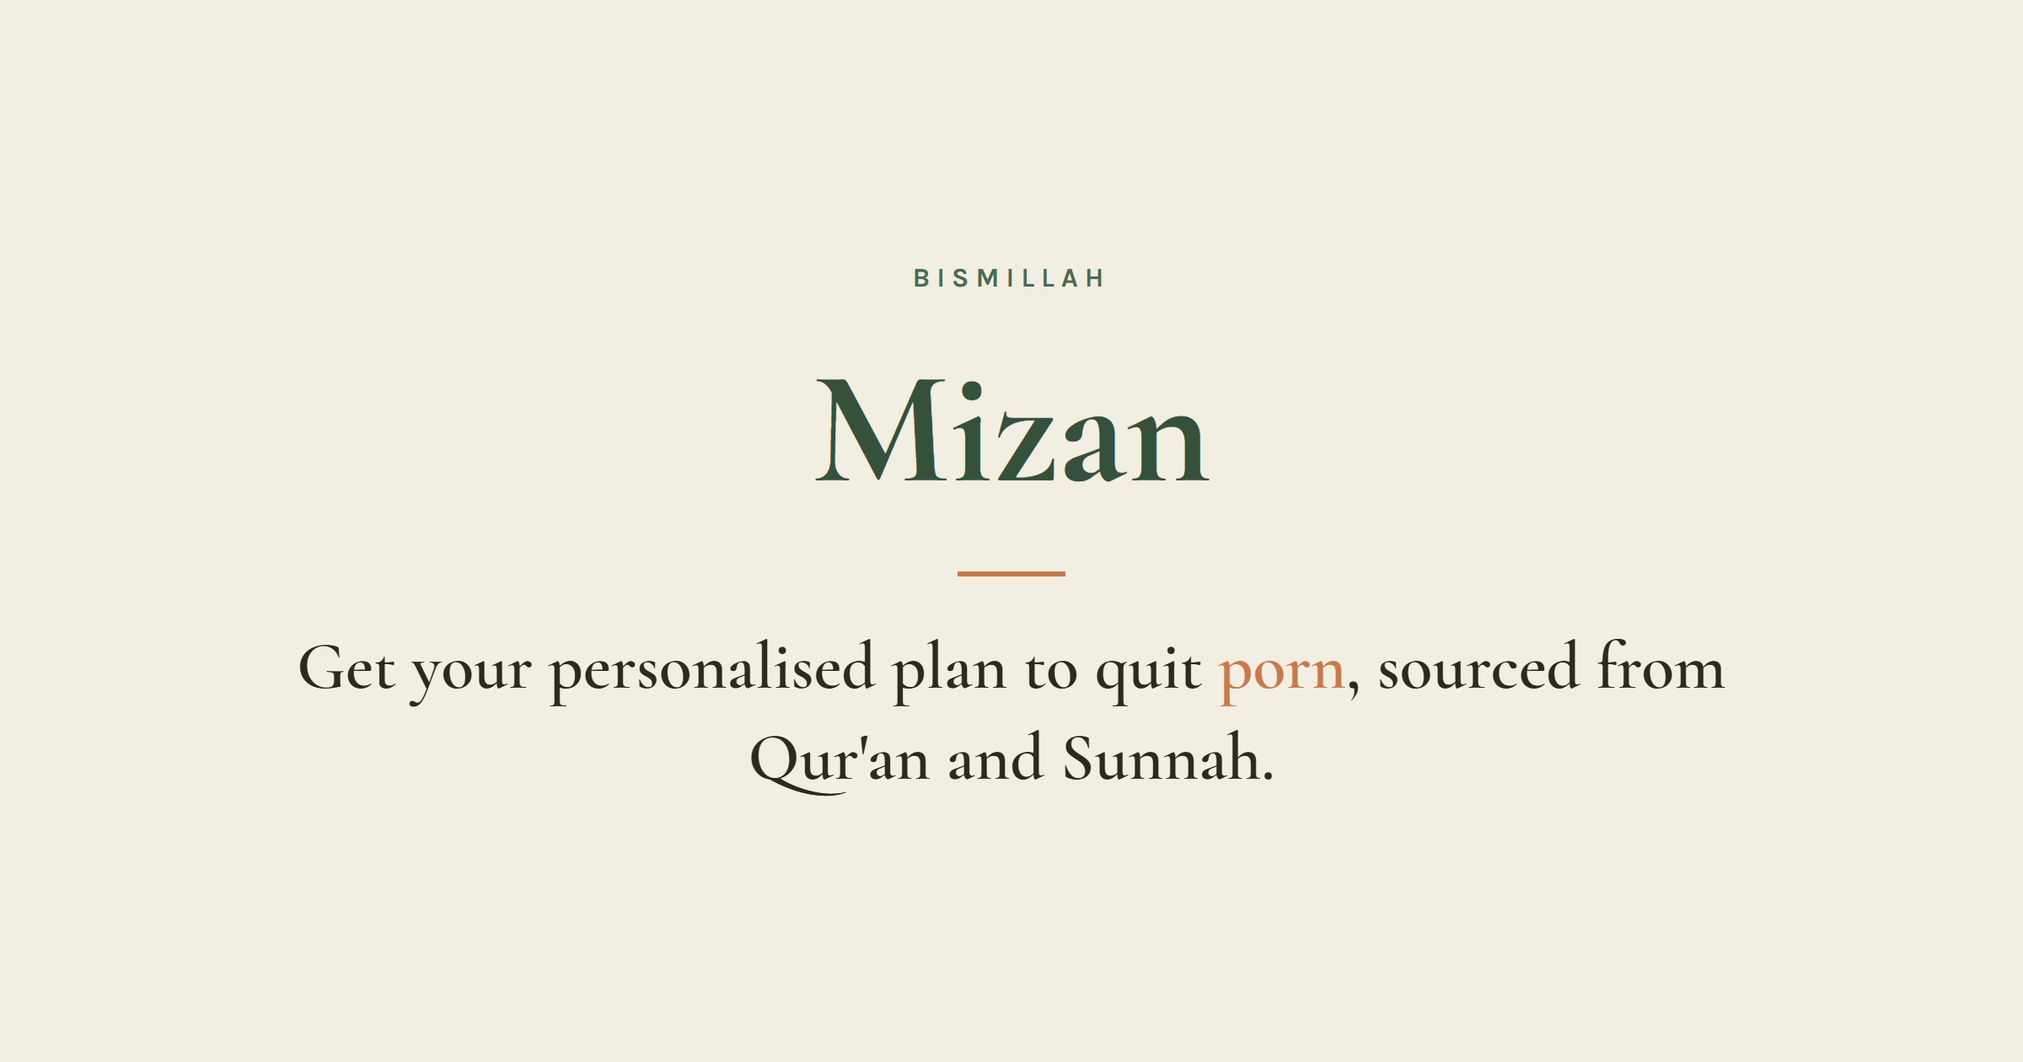
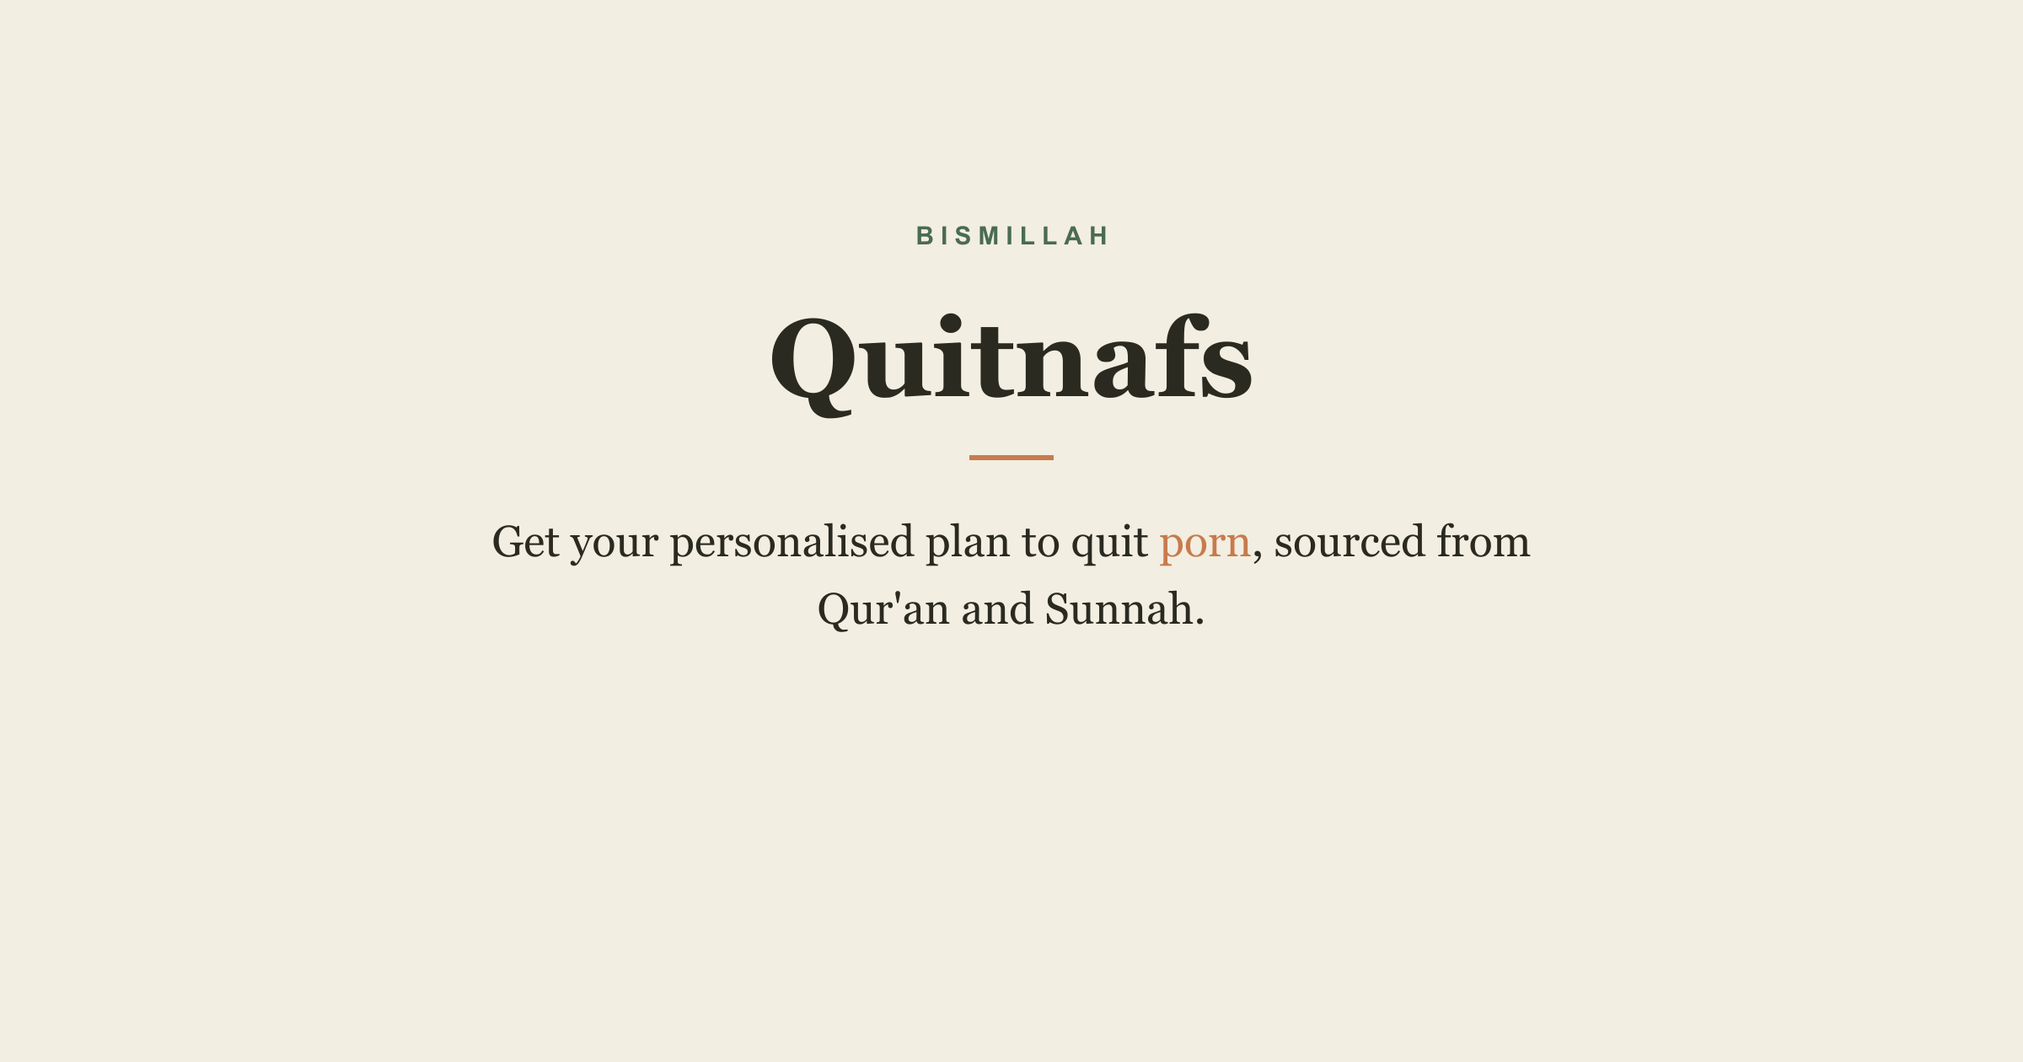
Rebrand: Mizan -> Quitnafs across site copy, meta tags, structured data, and OG image

diff --git a/index.html b/index.html
@@ -4,23 +4,23 @@
 <meta charset="utf-8">
 <meta name="viewport" content="width=device-width, initial-scale=1">
 <meta name="color-scheme" content="light only">
-<title>Mizan</title>
+<title>Quitnafs</title>
 <meta name="description" content="Get your personalized plan to quit porn, sourced from Qur'an and Sunnah.">
 
 <!-- Open Graph / link preview, fixes the black text-only card Instagram was showing.
      og:image must be an absolute URL, relative paths don't work for link previews. -->
 <meta property="og:type" content="website">
-<meta property="og:url" content="https://mizanguide.github.io/mizan_guide/">
-<meta property="og:title" content="Mizan">
+<meta property="og:url" content="https://quitnafs.github.io/quitnafs/">
+<meta property="og:title" content="Quitnafs">
 <meta property="og:description" content="Get your personalized plan to quit porn, sourced from Qur'an and Sunnah.">
-<meta property="og:image" content="https://mizanguide.github.io/mizan_guide/og-image.png">
+<meta property="og:image" content="https://quitnafs.github.io/quitnafs/og-image.png">
 <meta property="og:image:width" content="1200">
 <meta property="og:image:height" content="630">
 <meta name="twitter:card" content="summary_large_image">
-<meta name="twitter:title" content="Mizan">
+<meta name="twitter:title" content="Quitnafs">
 <meta name="twitter:description" content="Get your personalized plan to quit porn, sourced from Qur'an and Sunnah.">
-<meta name="twitter:image" content="https://mizanguide.github.io/mizan_guide/og-image.png">
-<link rel="canonical" href="https://mizanguide.github.io/mizan_guide/">
+<meta name="twitter:image" content="https://quitnafs.github.io/quitnafs/og-image.png">
+<link rel="canonical" href="https://quitnafs.github.io/quitnafs/">
 
 <!-- Structured data for search and AI answer engines (ChatGPT, Perplexity, Gemini, Google
      AI Overviews). The FAQPage text below must stay word for word identical to the visible
@@ -29,11 +29,11 @@
 {
   "@context": "https://schema.org",
   "@type": "Organization",
-  "name": "Mizan",
-  "url": "https://mizanguide.github.io/mizan_guide/",
-  "logo": "https://mizanguide.github.io/mizan_guide/og-image.png",
+  "name": "Quitnafs",
+  "url": "https://quitnafs.github.io/quitnafs/",
+  "logo": "https://quitnafs.github.io/quitnafs/og-image.png",
   "description": "A personalized, sourced plan to quit watching pornography, grounded in the Qur'an and the Sunnah.",
-  "sameAs": ["https://instagram.com/mizan.guide"]
+  "sameAs": ["https://instagram.com/quitnafs"]
 }
 </script>
 <script type="application/ld+json">
@@ -46,7 +46,7 @@
       "name": "How do I quit porn addiction as a Muslim?",
       "acceptedAnswer": {
         "@type": "Answer",
-        "text": "Start by naming what set it off and physically removing yourself from it, most relapses happen from the same few triggers repeated, late at night, alone, a specific app. Make sincere tawbah for what already happened, then build a real daily habit around it, not just willpower for one night. Allah describes exactly this pattern: \"Indeed, when Satan whispers to those mindful (of Allah), they remember (their Lord) then they start to see (things) clearly\" (Qur'an 7:201, Khattab). Quitting is rarely one clean decision, it is this pattern repeated daily until it holds, which is the actual structure behind a Mizan plan."
+        "text": "Start by naming what set it off and physically removing yourself from it, most relapses happen from the same few triggers repeated, late at night, alone, a specific app. Make sincere tawbah for what already happened, then build a real daily habit around it, not just willpower for one night. Allah describes exactly this pattern: \"Indeed, when Satan whispers to those mindful (of Allah), they remember (their Lord) then they start to see (things) clearly\" (Qur'an 7:201, Khattab). Quitting is rarely one clean decision, it is this pattern repeated daily until it holds, which is the actual structure behind a Quitnafs plan."
       }
     },
     {
@@ -54,7 +54,7 @@
       "name": "Why can't I stop watching porn even though I know it's haram?",
       "acceptedAnswer": {
         "@type": "Answer",
-        "text": "Knowing something is haram and breaking the habit around it are two different problems. Guilt on its own does not remove a trigger, and neither does counting days, which is why so many people who try streak counting alone start over again and again. What actually changes it is noticing the exact moment the urge starts and having a real, practiced response ready for that moment, not just the general intention to stop. That is the mechanism a Mizan plan is built around, one real step a day, not a countdown."
+        "text": "Knowing something is haram and breaking the habit around it are two different problems. Guilt on its own does not remove a trigger, and neither does counting days, which is why so many people who try streak counting alone start over again and again. What actually changes it is noticing the exact moment the urge starts and having a real, practiced response ready for that moment, not just the general intention to stop. That is the mechanism a Quitnafs plan is built around, one real step a day, not a countdown."
       }
     },
     {
@@ -62,7 +62,7 @@
       "name": "Is watching porn haram in Islam?",
       "acceptedAnswer": {
         "@type": "Answer",
-        "text": "Yes. The Qur'an ties this directly to guarding one's private parts and one's gaze outside marriage: \"those who guard their chastity, except with their wives or those (bondwomen) in their possession, for then they are free from blame, but whoever seeks beyond that are the transgressors\" (Qur'an 23:5 to 7, Khattab). Watching pornography falls outside that boundary. We built the Mizan plan around leaving it completely, not managing it."
+        "text": "Yes. The Qur'an ties this directly to guarding one's private parts and one's gaze outside marriage: \"those who guard their chastity, except with their wives or those (bondwomen) in their possession, for then they are free from blame, but whoever seeks beyond that are the transgressors\" (Qur'an 23:5 to 7, Khattab). Watching pornography falls outside that boundary. We built the Quitnafs plan around leaving it completely, not managing it."
       }
     },
     {
@@ -78,7 +78,7 @@
       "name": "Is nofap sunnah, or just a secular trend?",
       "acceptedAnswer": {
         "@type": "Answer",
-        "text": "Nofap is a modern, secular term for stopping masturbation, usually framed around streaks and self-discipline alone. Islam asks for the same outward action, guarding one's desire outside marriage, but for a different reason and with a different support system: sincere repentance to Allah, not just personal willpower, and mercy when you slip, not a broken streak counter starting back at zero. That difference is why streak-counting apps alone often do not hold for long, and why a Mizan plan is built around repentance and a daily step, not a number."
+        "text": "Nofap is a modern, secular term for stopping masturbation, usually framed around streaks and self-discipline alone. Islam asks for the same outward action, guarding one's desire outside marriage, but for a different reason and with a different support system: sincere repentance to Allah, not just personal willpower, and mercy when you slip, not a broken streak counter starting back at zero. That difference is why streak-counting apps alone often do not hold for long, and why a Quitnafs plan is built around repentance and a daily step, not a number."
       }
     },
     {
@@ -110,22 +110,22 @@
       "name": "What can I say when the urge comes?",
       "acceptedAnswer": {
         "@type": "Answer",
-        "text": "Say أَعوذُ بِاللّهِ مِنَ الشَّيْطَانِ الرَّجِيمِ which means: I seek refuge in Allah from Satan, the accursed. Allah describes exactly this moment: \"Indeed, when Satan whispers to those mindful (of Allah), they remember (their Lord) then they start to see (things) clearly\" (Qur'an 7:201, Khattab). Naming the feeling, saying this, and physically leaving the room for a few minutes is the actual first step we give people in a Mizan plan, not a generic tip."
+        "text": "Say أَعوذُ بِاللّهِ مِنَ الشَّيْطَانِ الرَّجِيمِ which means: I seek refuge in Allah from Satan, the accursed. Allah describes exactly this moment: \"Indeed, when Satan whispers to those mindful (of Allah), they remember (their Lord) then they start to see (things) clearly\" (Qur'an 7:201, Khattab). Naming the feeling, saying this, and physically leaving the room for a few minutes is the actual first step we give people in a Quitnafs plan, not a generic tip."
       }
     },
     {
       "@type": "Question",
-      "name": "How does Mizan help you quit?",
+      "name": "How does Quitnafs help you quit?",
       "acceptedAnswer": {
         "@type": "Answer",
-        "text": "Mizan is not a document you read once. After a short set of questions, we build you a private daily page for 14 days. Every day carries one real step sourced from the Qur'an or an authentic hadith, and the next day is built from how the last one actually went, not a fixed script everyone gets. It costs $5 once, and the questions above take about two minutes to answer."
+        "text": "Quitnafs is not a document you read once. After a short set of questions, we build you a private daily page for 14 days. Every day carries one real step sourced from the Qur'an or an authentic hadith, and the next day is built from how the last one actually went, not a fixed script everyone gets. It costs $5 once, and the questions above take about two minutes to answer."
       }
     }
   ]
 }
 </script>
 
-<!-- Google Analytics 4, set up under the mizan.guide account, 2026-09-10. -->
+<!-- Google Analytics 4, set up under the quitnafs account, 2026-09-10. -->
 <script async src="https://www.googletagmanager.com/gtag/js?id=G-CLQXXNVSGW"></script>
 <script>
   window.dataLayer = window.dataLayer || [];
@@ -377,7 +377,7 @@
 
   <header class="hero">
     <div class="eyebrow">Bismillah</div>
-    <h1 class="wordmark">Mizan</h1>
+    <h1 class="wordmark">Quitnafs</h1>
     <hr class="rule">
     <p class="tagline">Get your personalized plan to quit <span class="hl">porn</span>, sourced from Qur'an and Sunnah.</p>
   </header>
@@ -476,7 +476,7 @@
       <p class="pay-note" id="pay-note"></p>
     </div>
 
-    <p class="fallback-link"><a class="btn-ghost" id="dm-fallback-link" href="https://instagram.com/mizan.guide" target="_blank" rel="noopener">Or DM us on Instagram directly</a></p>
+    <p class="fallback-link"><a class="btn-ghost" id="dm-fallback-link" href="https://instagram.com/quitnafs" target="_blank" rel="noopener">Or DM us on Instagram directly</a></p>
   </section>
 
   <section class="proof" id="proof-section">
@@ -496,17 +496,17 @@
 
     <details class="faq-item" open>
       <summary>How do I quit porn addiction as a Muslim?</summary>
-      <p class="a">Start by naming what set it off and physically removing yourself from it, most relapses happen from the same few triggers repeated, late at night, alone, a specific app. Make sincere tawbah for what already happened, then build a real daily habit around it, not just willpower for one night. Allah describes exactly this pattern: "Indeed, when Satan whispers to those mindful (of Allah), they remember (their Lord) then they start to see (things) clearly." <span class="cite">Qur'an 7:201, Khattab</span> Quitting is rarely one clean decision, it is this pattern repeated daily until it holds, which is the actual structure behind a Mizan plan.</p>
+      <p class="a">Start by naming what set it off and physically removing yourself from it, most relapses happen from the same few triggers repeated, late at night, alone, a specific app. Make sincere tawbah for what already happened, then build a real daily habit around it, not just willpower for one night. Allah describes exactly this pattern: "Indeed, when Satan whispers to those mindful (of Allah), they remember (their Lord) then they start to see (things) clearly." <span class="cite">Qur'an 7:201, Khattab</span> Quitting is rarely one clean decision, it is this pattern repeated daily until it holds, which is the actual structure behind a Quitnafs plan.</p>
     </details>
 
     <details class="faq-item">
       <summary>Why can't I stop watching porn even though I know it's haram?</summary>
-      <p class="a">Knowing something is haram and breaking the habit around it are two different problems. Guilt on its own does not remove a trigger, and neither does counting days, which is why so many people who try streak counting alone start over again and again. What actually changes it is noticing the exact moment the urge starts and having a real, practiced response ready for that moment, not just the general intention to stop. That is the mechanism a Mizan plan is built around, one real step a day, not a countdown.</p>
+      <p class="a">Knowing something is haram and breaking the habit around it are two different problems. Guilt on its own does not remove a trigger, and neither does counting days, which is why so many people who try streak counting alone start over again and again. What actually changes it is noticing the exact moment the urge starts and having a real, practiced response ready for that moment, not just the general intention to stop. That is the mechanism a Quitnafs plan is built around, one real step a day, not a countdown.</p>
     </details>
 
     <details class="faq-item">
       <summary>Is watching porn haram in Islam?</summary>
-      <p class="a">Yes. The Qur'an ties this directly to guarding one's private parts and one's gaze outside marriage: "those who guard their chastity, except with their wives or those (bondwomen) in their possession, for then they are free from blame, but whoever seeks beyond that are the transgressors." <span class="cite">Qur'an 23:5 to 7, Khattab</span> Watching pornography falls outside that boundary. We built the Mizan plan around leaving it completely, not managing it.</p>
+      <p class="a">Yes. The Qur'an ties this directly to guarding one's private parts and one's gaze outside marriage: "those who guard their chastity, except with their wives or those (bondwomen) in their possession, for then they are free from blame, but whoever seeks beyond that are the transgressors." <span class="cite">Qur'an 23:5 to 7, Khattab</span> Watching pornography falls outside that boundary. We built the Quitnafs plan around leaving it completely, not managing it.</p>
     </details>
 
     <details class="faq-item">
@@ -516,7 +516,7 @@
 
     <details class="faq-item">
       <summary>Is nofap sunnah, or just a secular trend?</summary>
-      <p class="a">Nofap is a modern, secular term for stopping masturbation, usually framed around streaks and self-discipline alone. Islam asks for the same outward action, guarding one's desire outside marriage, but for a different reason and with a different support system: sincere repentance to Allah, not just personal willpower, and mercy when you slip, not a broken streak counter starting back at zero. That difference is why streak-counting apps alone often do not hold for long, and why a Mizan plan is built around repentance and a daily step, not a number.</p>
+      <p class="a">Nofap is a modern, secular term for stopping masturbation, usually framed around streaks and self-discipline alone. Islam asks for the same outward action, guarding one's desire outside marriage, but for a different reason and with a different support system: sincere repentance to Allah, not just personal willpower, and mercy when you slip, not a broken streak counter starting back at zero. That difference is why streak-counting apps alone often do not hold for long, and why a Quitnafs plan is built around repentance and a daily step, not a number.</p>
     </details>
 
     <details class="faq-item">
@@ -536,20 +536,20 @@
 
     <details class="faq-item">
       <summary>What can I say when the urge comes?</summary>
-      <p class="a">Say <span class="arabic">أَعوذُ بِاللّهِ مِنَ الشَّيْطَانِ الرَّجِيمِ</span> which means: I seek refuge in Allah from Satan, the accursed. Allah describes exactly this moment: "Indeed, when Satan whispers to those mindful (of Allah), they remember (their Lord) then they start to see (things) clearly." <span class="cite">Qur'an 7:201, Khattab</span> Naming the feeling, saying this, and physically leaving the room for a few minutes is the actual first step we give people in a Mizan plan, not a generic tip.</p>
+      <p class="a">Say <span class="arabic">أَعوذُ بِاللّهِ مِنَ الشَّيْطَانِ الرَّجِيمِ</span> which means: I seek refuge in Allah from Satan, the accursed. Allah describes exactly this moment: "Indeed, when Satan whispers to those mindful (of Allah), they remember (their Lord) then they start to see (things) clearly." <span class="cite">Qur'an 7:201, Khattab</span> Naming the feeling, saying this, and physically leaving the room for a few minutes is the actual first step we give people in a Quitnafs plan, not a generic tip.</p>
     </details>
 
     <details class="faq-item">
-      <summary>How does Mizan help you quit?</summary>
-      <p class="a">Mizan is not a document you read once. After a short set of questions, we build you a private daily page for 14 days. Every day carries one real step sourced from the Qur'an or an authentic hadith, and the next day is built from how the last one actually went, not a fixed script everyone gets. It costs $5 once, and the questions above take about two minutes to answer.</p>
+      <summary>How does Quitnafs help you quit?</summary>
+      <p class="a">Quitnafs is not a document you read once. After a short set of questions, we build you a private daily page for 14 days. Every day carries one real step sourced from the Qur'an or an authentic hadith, and the next day is built from how the last one actually went, not a fixed script everyone gets. It costs $5 once, and the questions above take about two minutes to answer.</p>
     </details>
   </section>
 
   </main>
 
   <footer>
-    <div class="w">Mizan</div>
-    <div class="h">@mizan.guide</div>
+    <div class="w">Quitnafs</div>
+    <div class="h">@quitnafs</div>
   </footer>
 
 </div>
@@ -715,7 +715,7 @@
       paidBtn.hidden = false;
     } catch (e) {
       document.getElementById('pd-name').textContent = 'Could not load';
-      payNote.textContent = `Payment details did not load. Refresh this page, or DM us at @mizan.guide with your code ${leadRef}.`;
+      payNote.textContent = `Payment details did not load. Refresh this page, or DM us at @quitnafs with your code ${leadRef}.`;
       payNote.classList.add('error');
     }
   }
@@ -732,7 +732,7 @@
       logEvent(eventName);
     } catch (e) {
       paidBtn.disabled = false;
-      payNote.textContent = `That did not go through. Please try again, or DM us at @mizan.guide with your code ${leadRef}.`;
+      payNote.textContent = `That did not go through. Please try again, or DM us at @quitnafs with your code ${leadRef}.`;
       payNote.classList.add('error');
     }
   }

diff --git a/plan.html b/plan.html
@@ -6,7 +6,7 @@
 <meta name="color-scheme" content="light only">
 <meta name="robots" content="noindex, nofollow">
 <meta name="referrer" content="no-referrer">
-<title>Mizan · Your plan</title>
+<title>Quitnafs · Your plan</title>
 <link rel="preconnect" href="https://fonts.googleapis.com">
 <link rel="preconnect" href="https://fonts.gstatic.com" crossorigin>
 <link href="https://fonts.googleapis.com/css2?family=Cormorant+Garamond:wght@500;600;700&family=Karla:wght@400;600;700&display=swap" rel="stylesheet">
@@ -161,7 +161,7 @@
     <hr class="rule">
   </header>
   <main id="app"><p class="muted">Loading your plan...</p></main>
-  <footer><div class="w">Mizan</div><div class="h">@mizan.guide</div></footer>
+  <footer><div class="w">Quitnafs</div><div class="h">@quitnafs</div></footer>
 </div>
 
 <button type="button" class="fab" id="fab" hidden>+ Log a moment</button>
@@ -642,11 +642,11 @@
   window.addEventListener('hashchange', () => location.reload());
 
   if (!TOKEN_OK) {
-    showState("This link doesn't look right.", 'Message us on Instagram at @mizan.guide and we will send your plan link again.');
+    showState("This link doesn't look right.", 'Message us on Instagram at @quitnafs and we will send your plan link again.');
   } else {
     rpc('get_plan', { p_token: token })
       .then(render)
-      .catch(() => showState('We could not load your plan just now.', 'Please refresh in a minute. If it keeps happening, message us at @mizan.guide.'));
+      .catch(() => showState('We could not load your plan just now.', 'Please refresh in a minute. If it keeps happening, message us at @quitnafs.'));
   }
 </script>
 </body>
